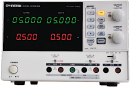
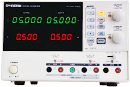
Delayed to problems on EGR 323 PS#6, edited colors of Instek power supply photo on lab page

diff --git a/S21/323/323S21PS.HTM b/S21/323/323S21PS.HTM
@@ -53,7 +53,7 @@ A:hover {
                    <DIV style="text-align:right; margin-top: 0px;
                               margin-bottom: 1px; font-size: 80%"
 
-                              >(Last update: 3/01/2021 11:04 am)
+                              >(Last update: 3/02/2021 7:52 pm)
 <!-- - - - - - - - - - - - - - - - - - - - - - - - - - - - - -->
                                                 </DIV></TD></TR>
 </TABLE>
@@ -84,6 +84,26 @@ PS                                                           <BR>
    (In Sedra &amp; Smith unless otherwise noted<sup>1</sup>)</DIV></B>
 <!-- - - - - - - - - - - - - - - - - - - - - -  --></TD></TR><TR>
    <!-- PS#  -->                  <TD align="right" valign="top">
+ &nbsp;
+
+   <!-- Assigned --><BR><BR></TD><TD align="center" valign="top">
+        &nbsp;
+   <!-- Due -->             </TD><TD align="center" valign="top">
+        &nbsp;<!--<a href=
+		"https://dordt.instructure.com/courses/3110075/assignments/31611898"
+		>3/05</a>
+
+   <!-- Returned -->        </TD><TD align="center" valign="top">
+		&nbsp;<!--<a href=
+        "https://dordt.instructure.com/files/20095xxxx/download?download_frd=1"
+        >1/30</a>
+   <!-- Assignment -->  </TD><TD align="left" valign="top">&nbsp;
+        Topics: HF model of a MOSFET, and of a BJT     <br>&nbsp; 
+        Read: &nbsp; Ch. 10, Section 10.1              <BR>&nbsp;
+		                                               <br>&nbsp;
+        Do <DO>+10.2, 10.3 (more to be added. . .)</DO>
+<!-- - - - - - - - - - - - - - - - - - - - - -  --></TD></TR><TR>
+   <!-- PS#  -->                  <TD align="right" valign="top">
  6
 
    <!-- Assigned --><BR><BR></TD><TD align="center" valign="top">
@@ -98,11 +118,11 @@ PS                                                           <BR>
         "https://dordt.instructure.com/files/20095xxxx/download?download_frd=1"
         >1/30</a>
    <!-- Assignment -->  </TD><TD align="left" valign="top">&nbsp;
-        Topics: Transfer functions, Bode plots, HF model <br>&nbsp; &nbsp; &nbsp; &nbsp; &nbsp; &nbsp; &nbsp; 
-		        of a MOSFET                              <br>&nbsp; 
-        Read: &nbsp;Appendix F, Ch. 10, Section 10.1     <BR>&nbsp;
+        Topics: Transfer functions, Bode plots,          <br>&nbsp;
+        Read: &nbsp;Appendix F,                          <BR>&nbsp;
 		                                                 <br>&nbsp;
-        Do <DO>F.1, F.4, F.9, +10.2, 10.3</DO>
+        Do <DO>F.1, F.4, F.9</DO>                        <br>&nbsp;<small>
+		<i>(This assignment was shortened on Tuesday evening, 3/02.)</i></small>
 <!-- - - - - - - - - - - - - - - - - - - - - -  --></TD></TR><TR>
    <!-- PS#  -->                  <TD align="right" valign="top">
  5
